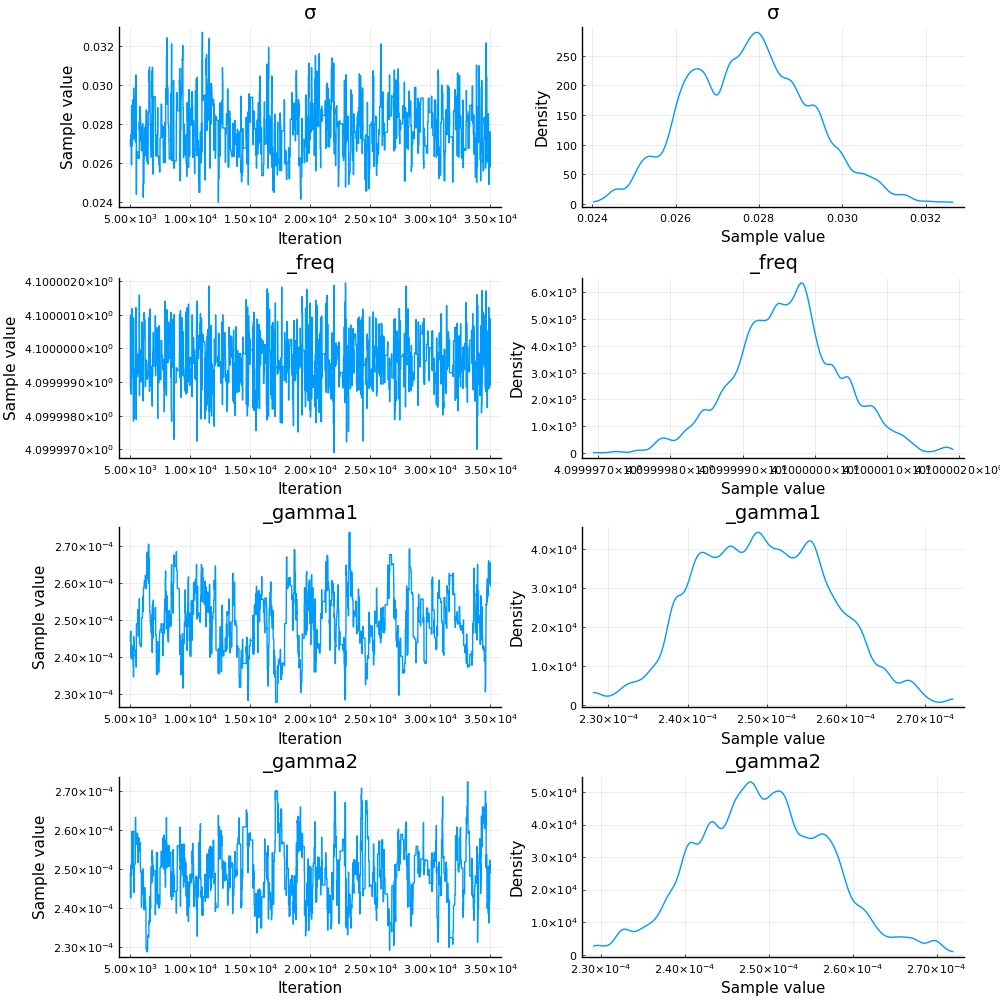
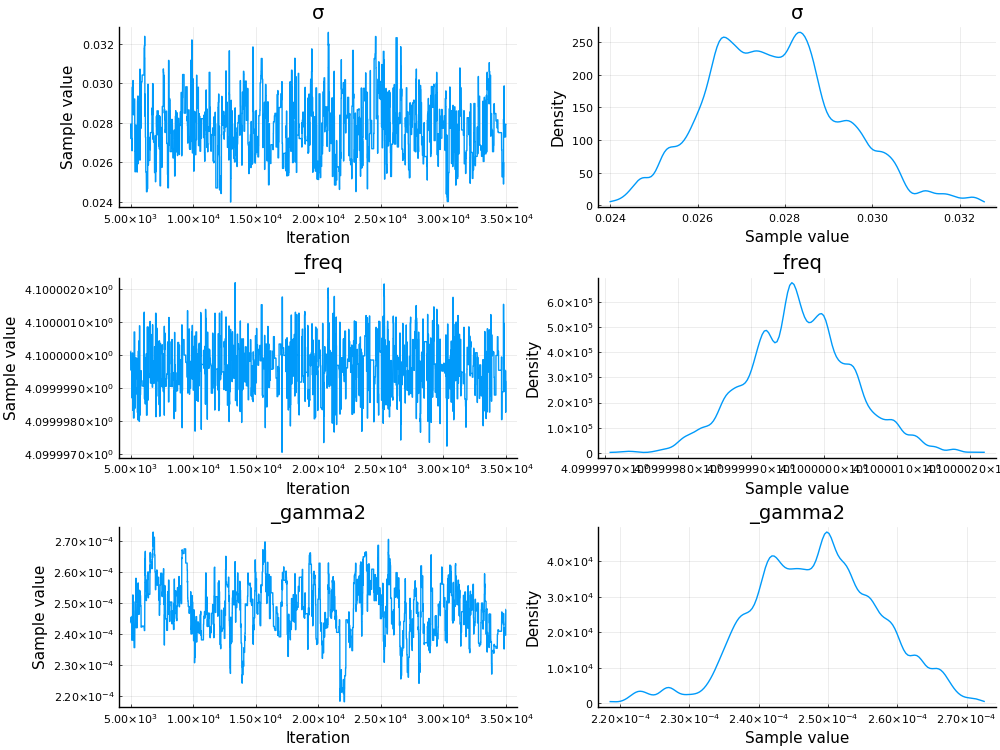
update the Single Qubit Bayesian, remove the T1-decay time

diff --git a/docs/src/example3.md b/docs/src/example3.md
@@ -41,7 +41,7 @@ t_dark_times = collect(range(0.0, T_Ramsey, length=N_dark_times))
 rho_synthetic_ramsey_u,rho_synthetic_ramsey_v = GLOQ.RamseyForwardSolve(
 				 rho_u0,rho_v0, # initial values, u for the real part, v for the imaginary part
 			     omegas,omr, # transition frequencies, drive frequency
-				 gamma1,gamma2, # decay and dephasing parameters ?
+				 gamma1,gamma2, # decay and dephasing parameters 
 				 initial_state, # initial state
 				 TC,t_dark_times,N_states) # control time, dark time, total number of states
 population_synthetic = GLOQ.get_population(rho_synthetic_ramsey_u)
@@ -86,13 +86,12 @@ global sample_number
 	 # Priori distribution
 	σ ~ InverseGamma()
     _freq ~ truncated(Normal(4.1,1e-4),4.1-5e-4,4.1+5e-4)
-    _gamma1 ~ truncated(Normal(25e-05,1e-5),20e-5,30e-5)
-    _gamma2 ~ truncated(Normal(25e-05,1e-5),20e-5,30e-5)
+    _gamma2 ~ truncated(Normal(25e-05,2.5e-5),20e-5,30e-5)
 
 	_rho_ramsey_u,_rho_ramsey_v = GLOQ.RamseyForwardSolve(
 					 rho_u0,rho_v0, # initial values, u for the real part, v for the imaginary part
 				     2.0*pi*[_freq],omr, # transition frequencies, drive frequency
-					 [_gamma1],[_gamma2], # decay and dephasing parameters ?
+					 gamma1,[_gamma2], # decay and dephasing parameters ?
 					 initial_state, # initial state
 					 TC,t_dark_times,N_states;
 					 method="exponential")
@@ -124,7 +123,6 @@ display(chain[BurnIn+1:end])
 ```
 chain_data = DataFrame(chain[BurnIn+1:end])
 freq_mean = mean(chain_data._freq)
-gamma1_mean = mean(chain_data._gamma1)
 gamma2_mean = mean(chain_data._gamma2)
 ```
 #### The Ramsey curve corresponding to the mean value of the chain
@@ -132,7 +130,7 @@ gamma2_mean = mean(chain_data._gamma2)
 rho_chain_mean_u,rho_chain_mean_v = GLOQ.RamseyForwardSolve(
 				 rho_u0,rho_v0, # initial values, u for the real part, v for the imaginary part
 				 2.0*pi*[freq_mean],omr, # transition frequencies, drive frequency
-				 [gamma1_mean],[gamma2_mean], # decay and dephasing parameters ?
+				 gamma1,[gamma2_mean], # decay and dephasing parameters ?
 				 initial_state, # initial state
 				 TC,t_dark_times,N_states;
 				 method="exponential")
@@ -157,7 +155,6 @@ display(fig_mean_vs_syn)
 #### Display the difference between the mean value of the chain and the true value
 ```
 println( "Error of freqs: ",abs(freq_mean-freqs[1]),
-		 " Error of γ₁: ",abs(gamma1_mean-gamma1[1]),
 		 " Error of γ₂: ",abs(gamma2_mean-gamma2[1]) )
 ```
 #### Results:
@@ -171,12 +168,11 @@ for i = 1:1000
 	global fig_result
 	sample_ind = rand(1:chain_size-BurnIn)
     freq_sample = chain_data._freq[sample_ind]
-    gamma1_sample = chain_data._gamma1[sample_ind]
     gamma2_sample = chain_data._gamma2[sample_ind]
     rho_sample_u,rho_sample_v = GLOQ.RamseyForwardSolve(
 				 rho_u0,rho_v0, # initial values, u for the real part, v for the imaginary part
 				 2.0*pi*[freq_sample],omr, # transition frequencies, drive frequency
-				 [gamma1_sample],[gamma2_sample], # decay and dephasing parameters ?
+				 gamma1,[gamma2_sample], # decay and dephasing parameters 
 				 initial_state, # initial state
 				 TC,t_dark_times,N_states;
 				 method="exponential")

diff --git a/docs/src/model.md b/docs/src/model.md
@@ -44,8 +44,8 @@ and the dephasing operator ${\cal L}_{2}$ is in the form
 \end{array}
 \right].
 ```
-The $T_1$ relaxation time for energy level $k$ is $T_{1,k}=1/\gamma_{1,k}$,
-and the $T_2$ dephasing time for energy level $k$ is $T_{2,k}=1/\gamma_{2,k}$.
+The thermal relaxation time for energy level $k$ is $T_{1,k}=1/\gamma_{1,k}$,
+and the  dephasing time for energy level $k$ is $T_{2,k}=1/\gamma_{2,k}$.
 
 ## Lindblad equation with charge noise
 We also consider the Lindblad model with noise. The system Hamiltonian is
